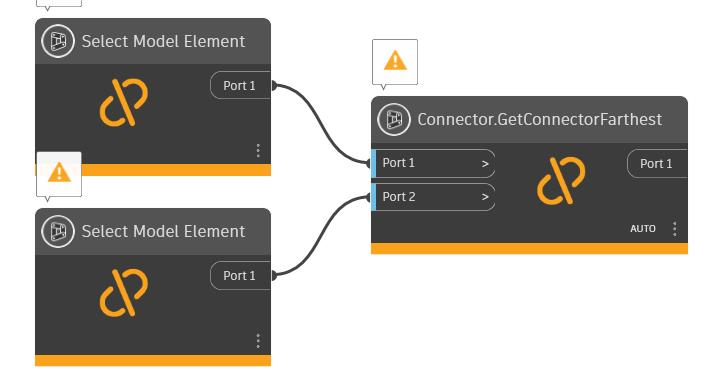
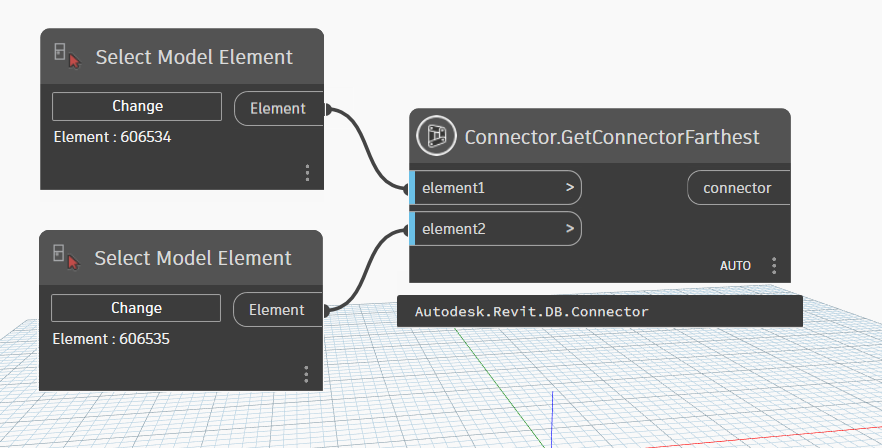
fix null connector farthest . element connected with

diff --git a/OpenMEP/ConnectorManager/Connector.cs b/OpenMEP/ConnectorManager/Connector.cs
@@ -188,7 +188,7 @@ public class Connector
     /// </summary>
     /// <param name="c">origin connector</param>
     /// <param name="connectors">an collection connector to check</param>
-    /// <returns></returns>
+    /// <returns name="connector">connector</returns>
     public static Autodesk.Revit.DB.Connector? GetConnectorFarthest(Autodesk.Revit.DB.Connector? c,
         List<Autodesk.Revit.DB.Connector?> connectors)
     {
@@ -208,7 +208,7 @@ public class Connector
     }
     
     /// <summary>
-    /// Return Farthest Connector between element1 from element2
+    /// Return Farthest Connector between element1 with element2
     /// </summary>
     /// <param name="element1">first element</param>
     /// <param name="element2">second element</param>
@@ -216,12 +216,7 @@ public class Connector
     public static Autodesk.Revit.DB.Connector? GetConnectorFarthest(Revit.Elements.Element? element1,
         Revit.Elements.Element? element2)
     {
-        ConnectorSet? connectorSet = GetConnectorSet(element1);
-        if (connectorSet == null)
-        {
-            return null;
-        }
-
+        List<Autodesk.Revit.DB.Connector?> connectorSet = GetConnectors(element1);
         Autodesk.Revit.DB.Connector? connector = GetConnectorFarthest(element2, connectorSet);
         return connector;
     }
@@ -230,15 +225,15 @@ public class Connector
     /// Get Farthest Connector With Element
     /// </summary>
     /// <param name="element">element to check</param>
-    /// <param name="connectorSet">an collection connectors</param>
+    /// <param name="connectors">an collection connectors</param>
     /// <returns name="connector">farthest connector</returns>
     internal static Autodesk.Revit.DB.Connector? GetConnectorFarthest(Revit.Elements.Element? element,
-        ConnectorSet? connectorSet)
+        List<Autodesk.Revit.DB.Connector?> connectors)
     {
         Autodesk.Revit.DB.Connector? farthest = null;
         Point? locationCenter = global::OpenMEP.Element.Element.LocationCenter(element);
-        double distance = Double.MaxValue;
-        foreach (Autodesk.Revit.DB.Connector? connector in connectorSet!)
+        double distance = Double.MinValue;
+        foreach (Autodesk.Revit.DB.Connector? connector in connectors!)
         {
             if (locationCenter != null)
             {
@@ -605,11 +600,14 @@ public class Connector
     /// <returns name="element">element has connected with connector</returns>
     public static Revit.Elements.Element? GetElementConnectedWith(Autodesk.Revit.DB.Connector connector)
     {
+        if (connector == null) throw new ArgumentNullException(nameof(connector));
         if (connector.IsConnected)
         {
-            return connector.AllRefs.Cast<Autodesk.Revit.DB.Connector>().First().Owner.ToDynamoType();
+            return connector.AllRefs.Cast<Autodesk.Revit.DB.Connector>()
+                .Where(x=>x.Owner.Id!=connector.Owner.Id)
+                .Where(x => x.ConnectorType != ConnectorType.Logical)
+                .Select(x => x.Owner.ToDynamoType()).FirstOrDefault();
         }
-
         return null;
     }
 
